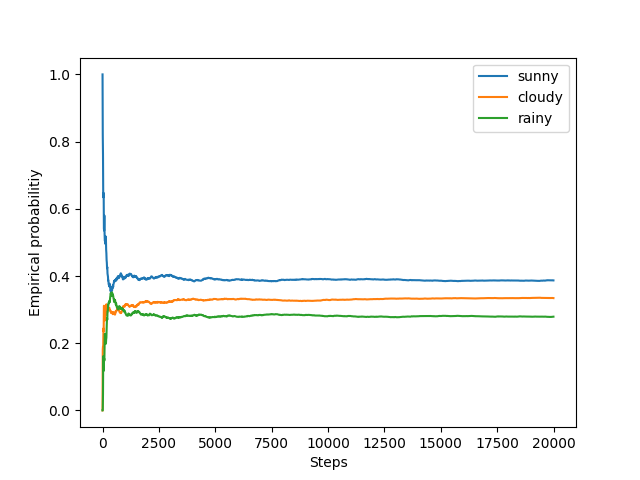
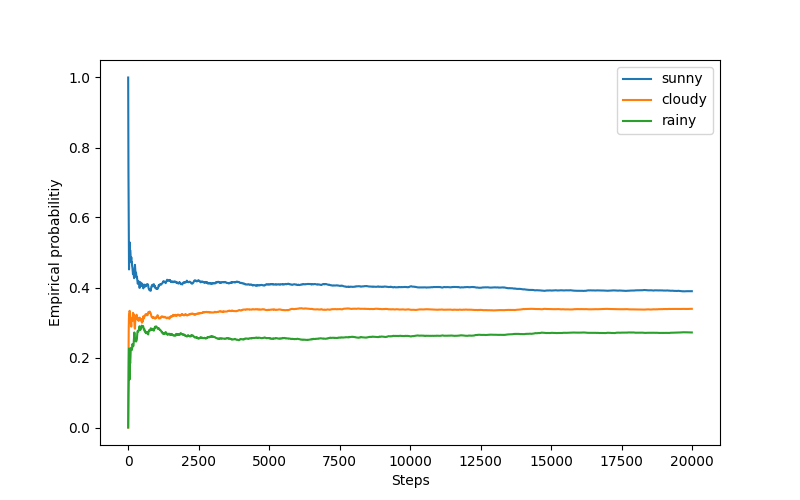
update markov chain fig size

diff --git a/markov_chain.py b/markov_chain.py
@@ -38,7 +38,7 @@ states = np.array(states)
 average_every = 10
 time_steps = range(1, n_steps, average_every)
 
-plt.figure()
+plt.figure(figsize=(8, 5))
 for i, label in enumerate(state_space):
     empirical_probabilities = [np.sum(states[:t] == i) / t for t in time_steps]
     plt.plot(time_steps, empirical_probabilities, label=label)
